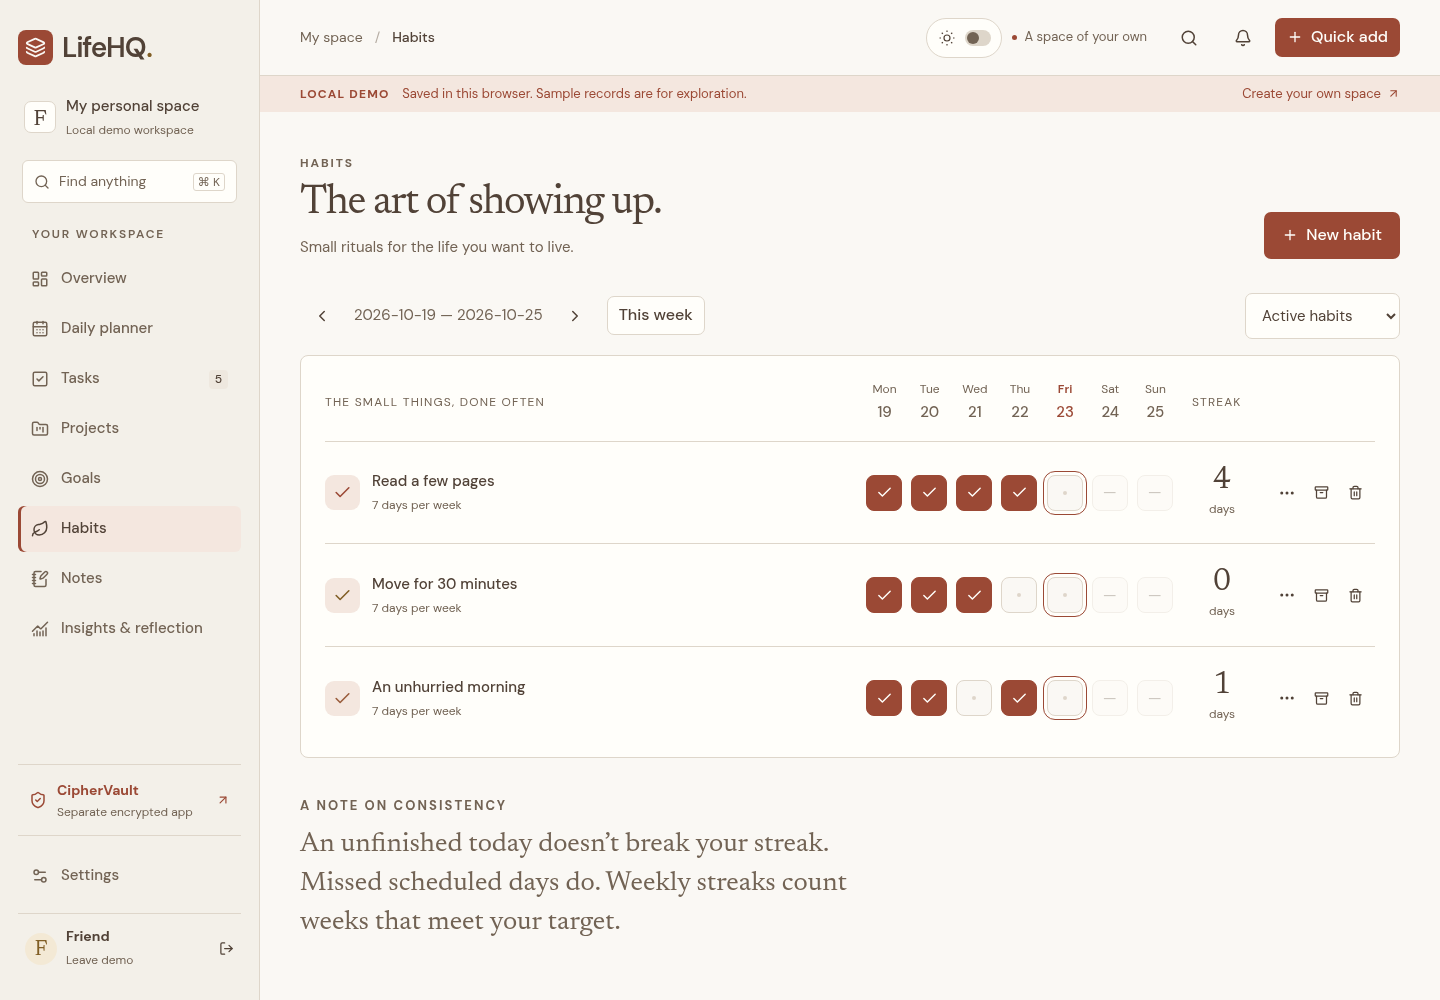
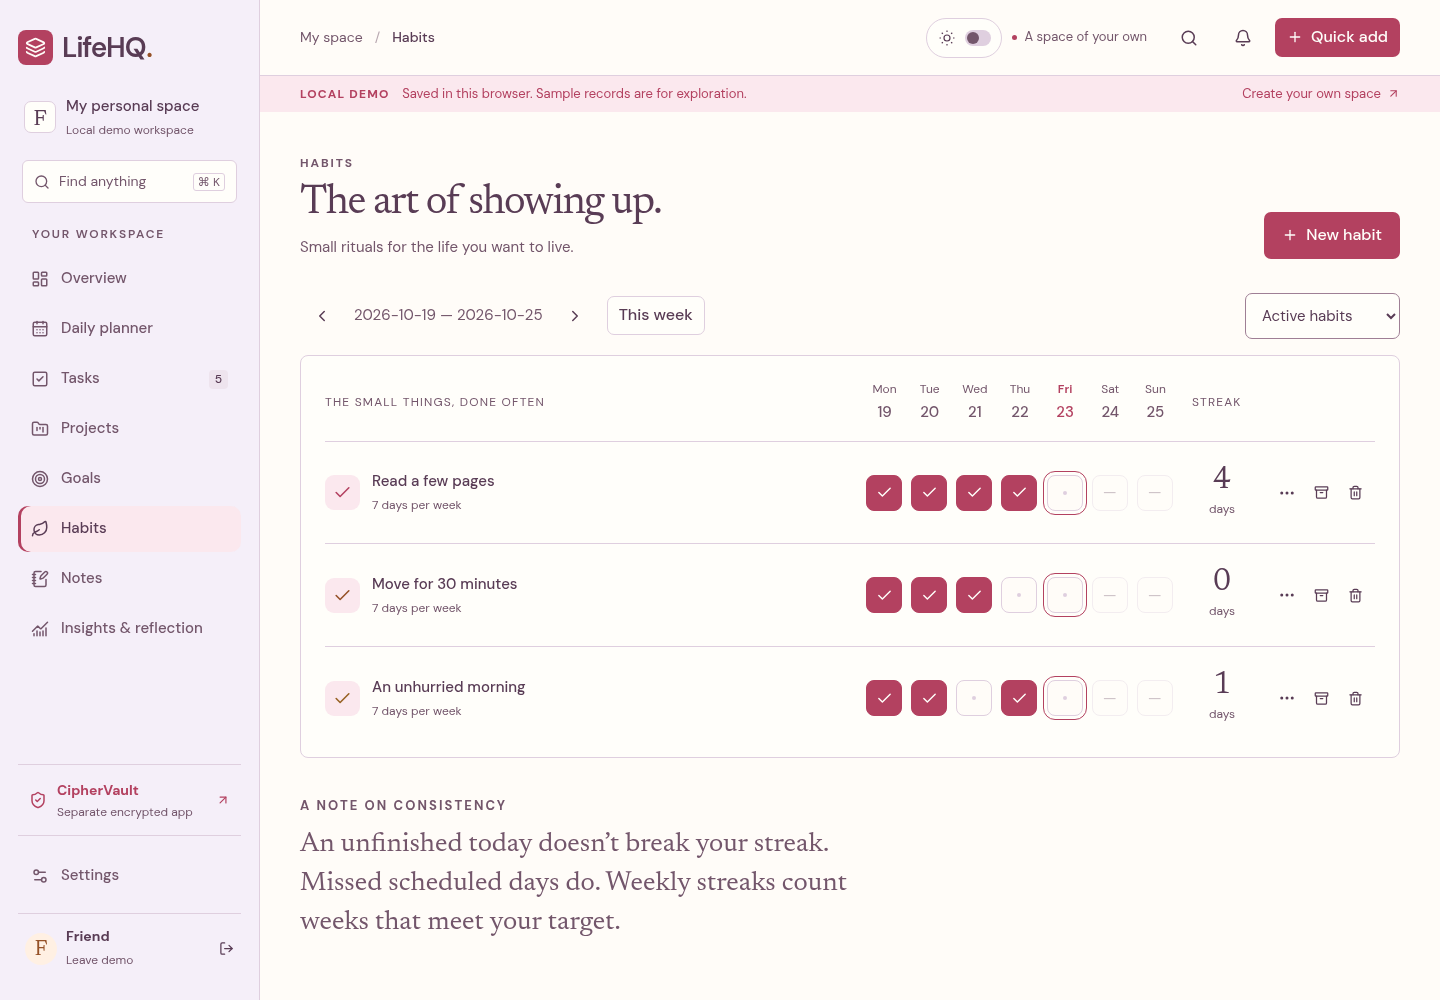
Apply reference-inspired personal colors to LifeHQ

diff --git a/apps/lifehq/app/styles.css b/apps/lifehq/app/styles.css
@@ -1,3 +1,54 @@
+/* Personal planner palette, adapted from Tiimo, Structured and TeuxDeux. */
+:root {
+  --paper: #fffcf8;
+  --surface: #fffefa;
+  --ink: #593c55;
+  --muted: #73566b;
+  --accent-primary: #b34160;
+  --accent-soft: #fbe8ee;
+  --stone: #eee4ee;
+  --line: #dfcfdf;
+  --control-line: #9f7f95;
+  --copper: #955127;
+  --copper-soft: #fff0e3;
+  --danger: #a1344b;
+  --danger-soft: #fce4e9;
+  --shadow: 0 16px 50px #86546b14;
+  --sidebar: #f5eff9;
+  --tint-peach: #fff0e3;
+  --tint-lilac: #f1eafb;
+  --tint-rose: #fbe8ee;
+  --tint-butter: #fff5d9;
+  --lilac-accent: #79519a;
+  --gold-accent: #976122;
+  --hero-start: #fff1e7;
+  --hero-end: #f3eafa;
+}
+[data-theme="dark"] {
+  --paper: #49334e;
+  --surface: #533f5b;
+  --ink: #fff2f8;
+  --muted: #ddc9d8;
+  --accent-primary: #f4b0be;
+  --accent-soft: #653e53;
+  --stone: #634967;
+  --line: #81697d;
+  --control-line: #b69bb0;
+  --copper: #f2c4a3;
+  --copper-soft: #654832;
+  --danger: #ffc5cf;
+  --danger-soft: #733e55;
+  --sidebar: #402c47;
+  --shadow: 0 16px 50px #38233d33;
+  --tint-peach: #654832;
+  --tint-lilac: #594168;
+  --tint-rose: #653e53;
+  --tint-butter: #5e5031;
+  --lilac-accent: #dfb5ee;
+  --gold-accent: #ead38f;
+  --hero-start: #5c3d50;
+  --hero-end: #513f62;
+}
 .app-shell {
   display: flex;
   min-height: 100vh;
@@ -1907,8 +1958,8 @@
   color: var(--ink);
 }
 .auth-story .brand-mark {
-  background: #9b4935;
-  color: #fffefa;
+  background: var(--accent-primary);
+  color: var(--paper);
 }
 .auth-editorial {
   margin: auto 0;
@@ -3826,4 +3877,117 @@
 }
 [data-theme="dark"] .sidebar-search {
   border-color: var(--control-line);
+}
+
+/* Color marks the kinds of things in a person's day. */
+.dashboard-welcome {
+  padding: 26px 28px;
+  border-radius: 22px;
+  background: linear-gradient(115deg, var(--hero-start), var(--hero-end));
+}
+.date-stamp {
+  min-width: 112px;
+  padding: 14px 16px;
+  border: 0;
+  border-radius: 18px;
+  background: var(--tint-butter);
+}
+.daily-summary > div:nth-child(1) .summary-mark {
+  background: var(--tint-rose);
+  color: var(--accent-primary);
+}
+.daily-summary > div:nth-child(2) .summary-mark {
+  background: var(--tint-lilac);
+  color: var(--lilac-accent);
+}
+.daily-summary > div:nth-child(3) .summary-mark {
+  background: var(--tint-peach);
+  color: var(--copper);
+}
+.daily-rhythm {
+  background: var(--tint-lilac);
+  border-radius: 16px;
+}
+.daily-rhythm .timeline-dot {
+  outline-color: var(--tint-lilac);
+}
+.daily-rhythm .schedule-footer {
+  background: transparent;
+}
+.onboarding {
+  background: var(--tint-peach);
+  border-radius: 16px;
+}
+.accent-forest {
+  --accent: var(--accent-primary);
+  --project-tint: var(--tint-rose);
+}
+.accent-copper {
+  --accent: var(--copper);
+  --project-tint: var(--tint-peach);
+}
+.accent-ink {
+  --accent: var(--lilac-accent);
+  --project-tint: var(--tint-lilac);
+}
+.accent-sage,
+[data-theme="dark"] .accent-sage {
+  --accent: var(--gold-accent);
+  --project-tint: var(--tint-butter);
+}
+.mini-project,
+.project-card {
+  background: var(--project-tint, var(--surface));
+  border-radius: 14px;
+}
+input:not([type="checkbox"]):not([type="range"]),
+select,
+textarea {
+  border-color: var(--control-line);
+}
+.task-check {
+  border-color: var(--control-line);
+}
+.auth-story .illustration-card {
+  background: var(--tint-butter);
+}
+.auth-editorial h1 em {
+  color: var(--accent-primary);
+}
+.nav-link.active {
+  border-radius: 10px;
+}
+@media (max-width: 800px) {
+  .dashboard-welcome {
+    padding: 22px;
+  }
+}
+@media (max-width: 600px) {
+  .dashboard-welcome {
+    padding: 20px 16px;
+    gap: 10px;
+    border-radius: 18px;
+  }
+  .dashboard-welcome h1 {
+    font-size: 34px;
+  }
+  .dashboard-welcome .eyebrow {
+    font-size: 12px;
+    letter-spacing: 0.08em;
+  }
+  .date-stamp {
+    min-width: 64px;
+    padding: 10px 8px;
+    border-radius: 14px;
+  }
+  .date-stamp span:first-child {
+    font-size: 12px;
+    letter-spacing: 0.04em;
+  }
+  .date-stamp span:last-child {
+    font-size: 12px;
+  }
+  .date-stamp strong {
+    font-size: 34px;
+  }
 }

diff --git a/apps/lifehq/components/entity-editor.tsx b/apps/lifehq/components/entity-editor.tsx
@@ -112,10 +112,10 @@ export function EntityEditor({
             {name === "color"
               ? (
                   {
-                    forest: "Rosewood",
-                    copper: "Brass",
-                    ink: "Plum",
-                    sage: "Clay",
+                    forest: "Coral",
+                    copper: "Apricot",
+                    ink: "Lilac",
+                    sage: "Butter",
                   } as Record<string, string>
                 )[o]
               : o.replaceAll("_", " ").replace(/^./, (c) => c.toUpperCase())}

diff --git a/apps/lifehq/components/analytics-settings.tsx b/apps/lifehq/components/analytics-settings.tsx
@@ -478,8 +478,8 @@ export function SettingsPage() {
                   change("theme", e.target.value as Preferences["theme"])
                 }
               >
-                <option value="light">Natural ivory</option>
-                <option value="dark">Soft dusk</option>
+                <option value="light">Daylight</option>
+                <option value="dark">Moonlight</option>
                 <option value="system">Follow system</option>
               </select>
             </Field>

diff --git a/apps/lifehq/app/manifest.ts b/apps/lifehq/app/manifest.ts
@@ -6,8 +6,8 @@ export default function manifest(): MetadataRoute.Manifest {
     description: "A thoughtful space for your days, ideas, and ambitions.",
     start_url: "/workspace",
     display: "standalone",
-    background_color: "#faf8f4",
-    theme_color: "#9b4935",
+    background_color: "#fffcf8",
+    theme_color: "#b34160",
     icons: [
       { src: "/icon.svg", sizes: "any", type: "image/svg+xml", purpose: "any" },
     ],

diff --git a/DESIGN_SYSTEM.md b/DESIGN_SYSTEM.md
@@ -4,19 +4,21 @@ The interface combines editorial headings with a restrained working canvas. Over
 
 ## Foundations
 
-Tokens live in `packages/ui/styles.css`. DM Sans is the readable interface face; Newsreader provides editorial headings and occasional italic emphasis. Both are bundled open-source fonts; no remote font requests occur. Lucide supplies consistent outlined icons. Layouts use whitespace, rules, and a small number of raised surfaces rather than uniform cards everywhere.
+Shared primitives live in `packages/ui/styles.css`; LifeHQ now owns its personal palette in `apps/lifehq/app/styles.css`, while CipherVault owns its separate palette in its app stylesheet. DM Sans is the readable interface face; Newsreader provides editorial headings and occasional italic emphasis. Both are bundled open-source fonts; no remote font requests occur. Lucide supplies consistent outlined icons. Layouts use whitespace, rules, and a small number of raised surfaces rather than uniform cards everywhere.
 
 | Token | Light | Dark |
 | --- | --- | --- |
-| Paper | `#faf8f4` | `#493f46` |
-| Surface | `#fffefa` | `#594c55` |
-| Ink | `#514237` | `#f4eef1` |
-| Muted text | `#726354` | `#d9cdd4` |
-| Primary accent | `#9b4935` | `#eac2b3` |
-| Stone | `#eee8df` | `#63525c` |
-| Brass accent | `#805e25` | `#d8c2a6` |
+| Paper | `#fffcf8` | `#49334e` |
+| Surface | `#fffefa` | `#533f5b` |
+| Ink | `#593c55` | `#fff2f8` |
+| Muted text | `#73566b` | `#ddc9d8` |
+| Coral accent | `#b34160` | `#f4b0be` |
+| Stone | `#eee4ee` | `#634967` |
+| Apricot accent | `#955127` | `#f2c4a3` |
+| Lilac card | `#f1eafb` | `#594168` |
+| Butter card | `#fff5d9` | `#5e5031` |
 
-LifeHQ uses neutral ivory surfaces, warm brown text, and restrained terracotta accents. Navigation uses a subtle active background and a thin accent rule. Soft dusk is the evening theme. The header toggle changes light/dark appearance immediately; Settings also supports system appearance. A nonce-authorized bootstrap applies saved appearance before first paint. Account preferences sync the workspace theme; the login page retains a nonsensitive device preference.
+LifeHQ's Daylight and Moonlight themes adapt the personal planning principles in [the reference notes](docs/DESIGN_REFERENCES.md). A warm paper canvas, coral actions, and lilac/apricot/butter color groups make the different parts of the day recognizable. The greeting has a sunrise wash; schedule and project surfaces have gentle color and rounded corners. The header toggle changes appearance immediately; Settings supports system appearance. A nonce-authorized bootstrap applies saved appearance before first paint. Account preferences sync the workspace theme; login retains a nonsensitive device preference.
 
 CipherVault owns separate sandstone/ochre tokens, geometric branding, sans-serif headings, and a standalone lock screen. LifeHQ links to a standalone product page that launches the independent web origin. No vault unlock screen, keys, or encrypted records live in LifeHQ.
 
@@ -38,6 +40,6 @@ Focus uses a visible accent outline. Motion is short and limited to state transi
 
 ## Dark-mode refinement
 
-Dark mode uses desaturated dusk surfaces and off-white text in LifeHQ, with muted stone/champagne tones in CipherVault. Decorative dividers stay quiet; form inputs and secondary actions have a separate higher-contrast control border. Toasts use raised dark surfaces, and the vault prototype notice uses neutral text instead of a large amber band. Light-mode tokens are unchanged.
+LifeHQ’s Moonlight theme uses plum surfaces with rose, lilac, apricot, and butter accents; CipherVault retains muted stone/champagne tones. Decorative dividers stay quiet; form inputs and secondary actions have a separate higher-contrast control border. Toasts use raised dark surfaces, and the vault prototype notice uses neutral text instead of a large amber band. LifeHQ’s Daylight palette is documented above; the independent CipherVault palette is unchanged by this reference-inspired update.
 
 Visual verification includes empty and populated Overview screens, the vault setup, a selected dummy record, and the edit dialog at desktop and mobile sizes. The vault palette remains distinct from LifeHQ.

diff --git a/docs/IMPLEMENTATION.md b/docs/IMPLEMENTATION.md
@@ -69,3 +69,9 @@ CipherVault interface: https://ciphervault-radhe12.vercel.app — a separate bro
 ## Dark-mode visual refinement
 
 Dark-only tokens and overrides reduce the brown/yellow cast, separate header/sidebar/panel surfaces, soften decorative borders, and improve control and placeholder visibility. CipherVault's warning banner and active navigation use restrained tones. Light-mode tokens and layout are unchanged. Optimized builds and ESLint passed; six focused existing browser theme/accessibility checks passed, plus contrast/overflow checks across 11 additional dark captures using dummy records. The selected vault record and editor passed at desktop, tablet, and/or mobile sizes. The password-strength graphic also received a valid accessible image role. No authentication, storage, cryptographic, or data-access behavior changed.
+
+## Reference-inspired personal palette — 2026-10-24
+
+LifeHQ now adapts visual principles from Tiimo, Structured, and TeuxDeux: a warm white canvas, coral actions, a soft sunrise greeting, lilac scheduling, and differentiated pastel project cards. Daylight and Moonlight keep matching color families at readable contrast. Existing project color IDs remain compatible with saved records; displayed labels now read Coral, Apricot, Lilac, and Butter. CipherVault's independent palette remains unchanged.
+
+Validation before publication: optimized LifeHQ build and ESLint passed. Six existing Playwright checks passed, including responsive screens at 1440/768/390, all major sections in both themes, signup, and theme persistence. Fourteen additional reference-palette captures were taken; Overview and Projects passed contrast and overflow checks in both themes. See [the reference notes](DESIGN_REFERENCES.md) and [screenshot index](SCREENSHOTS.md). Hosted full-auth acceptance remains a separate unresolved check.

diff --git a/docs/DESIGN_REFERENCES.md b/docs/DESIGN_REFERENCES.md
@@ -1,0 +1,19 @@
+# Personal planner visual references
+
+Reviewed 2026-10-23 for LifeHQ's personal color direction. These are references for visual principles; LifeHQ does not copy their branding, assets, or layouts.
+
+| Reference | Official source | Principle adapted in LifeHQ |
+| --- | --- | --- |
+| Tiimo | https://www.tiimoapp.com/product | Give routines and tasks recognizable, gentle color groups instead of covering the whole workspace in one hue. |
+| Structured | https://structured.app/ | Use a friendly personal timeline, soft color blocks, and warm accents to make the day feel approachable. |
+| TeuxDeux | https://teuxdeux.com/ | Keep the working canvas paper-like and let the task content stay clear and simple. |
+
+Research used the official product pages and their publicly indexed product-image descriptions. Direct reference-site and CDN capture was blocked by the managed network proxy, so these are adapted design decisions, not sampled brand hex values or claims of pixel fidelity.
+
+## Applied direction
+
+LifeHQ's Daylight theme pairs a warm white canvas with coral actions, lilac scheduling, apricot project cards, and butter-yellow highlights. Headings use plum text for readable contrast. Moonlight uses corresponding plum surfaces and the same color families at accessible luminance levels. Saved project color IDs remain compatible; displayed labels now read Coral, Apricot, Lilac, and Butter.
+
+The greeting uses a soft sunrise color wash. Small summary icons and project surfaces express the different parts of the day. Existing navigation, typography, data, and light/dark controls remain in place. CipherVault retains its independent visual identity.
+
+Reference assets are linked for research only and are not bundled into either app. The deployed interface continues to load its own bundled fonts and assets.

diff --git a/docs/SCREENSHOTS.md b/docs/SCREENSHOTS.md
@@ -34,3 +34,13 @@ Dark-mode detail review (sample/dummy records only):
 - [Vault setup](screenshots/vault-setup-dark-1440.png)
 - [Vault selected record](screenshots/vault-detail-dark-1440.png) · [Tablet](screenshots/vault-detail-dark-768.png) · [Mobile](screenshots/vault-detail-dark-390.png)
 - [Vault editor](screenshots/vault-editor-dark-1440.png) · [Mobile](screenshots/vault-editor-dark-390.png)
+
+Reference-inspired personal palette (sample records only):
+
+- Overview: [Daylight desktop](screenshots/personal-overview-light-1440.png) · [Tablet](screenshots/personal-overview-light-768.png) · [Mobile](screenshots/personal-overview-light-390.png)
+- Overview: [Moonlight desktop](screenshots/personal-overview-dark-1440.png) · [Tablet](screenshots/personal-overview-dark-768.png) · [Mobile](screenshots/personal-overview-dark-390.png)
+- Projects: [Daylight](screenshots/personal-projects-light-1440.png) · [Mobile](screenshots/personal-projects-light-390.png) · [Moonlight](screenshots/personal-projects-dark-1440.png) · [Mobile](screenshots/personal-projects-dark-390.png)
+- Login: [Daylight](screenshots/personal-login-light-1440.png) · [Moonlight](screenshots/personal-login-dark-1440.png)
+- Signup mobile: [Daylight](screenshots/personal-signup-light-390.png) · [Moonlight](screenshots/personal-signup-dark-390.png)
+
+See [the source references and adaptation notes](DESIGN_REFERENCES.md).
